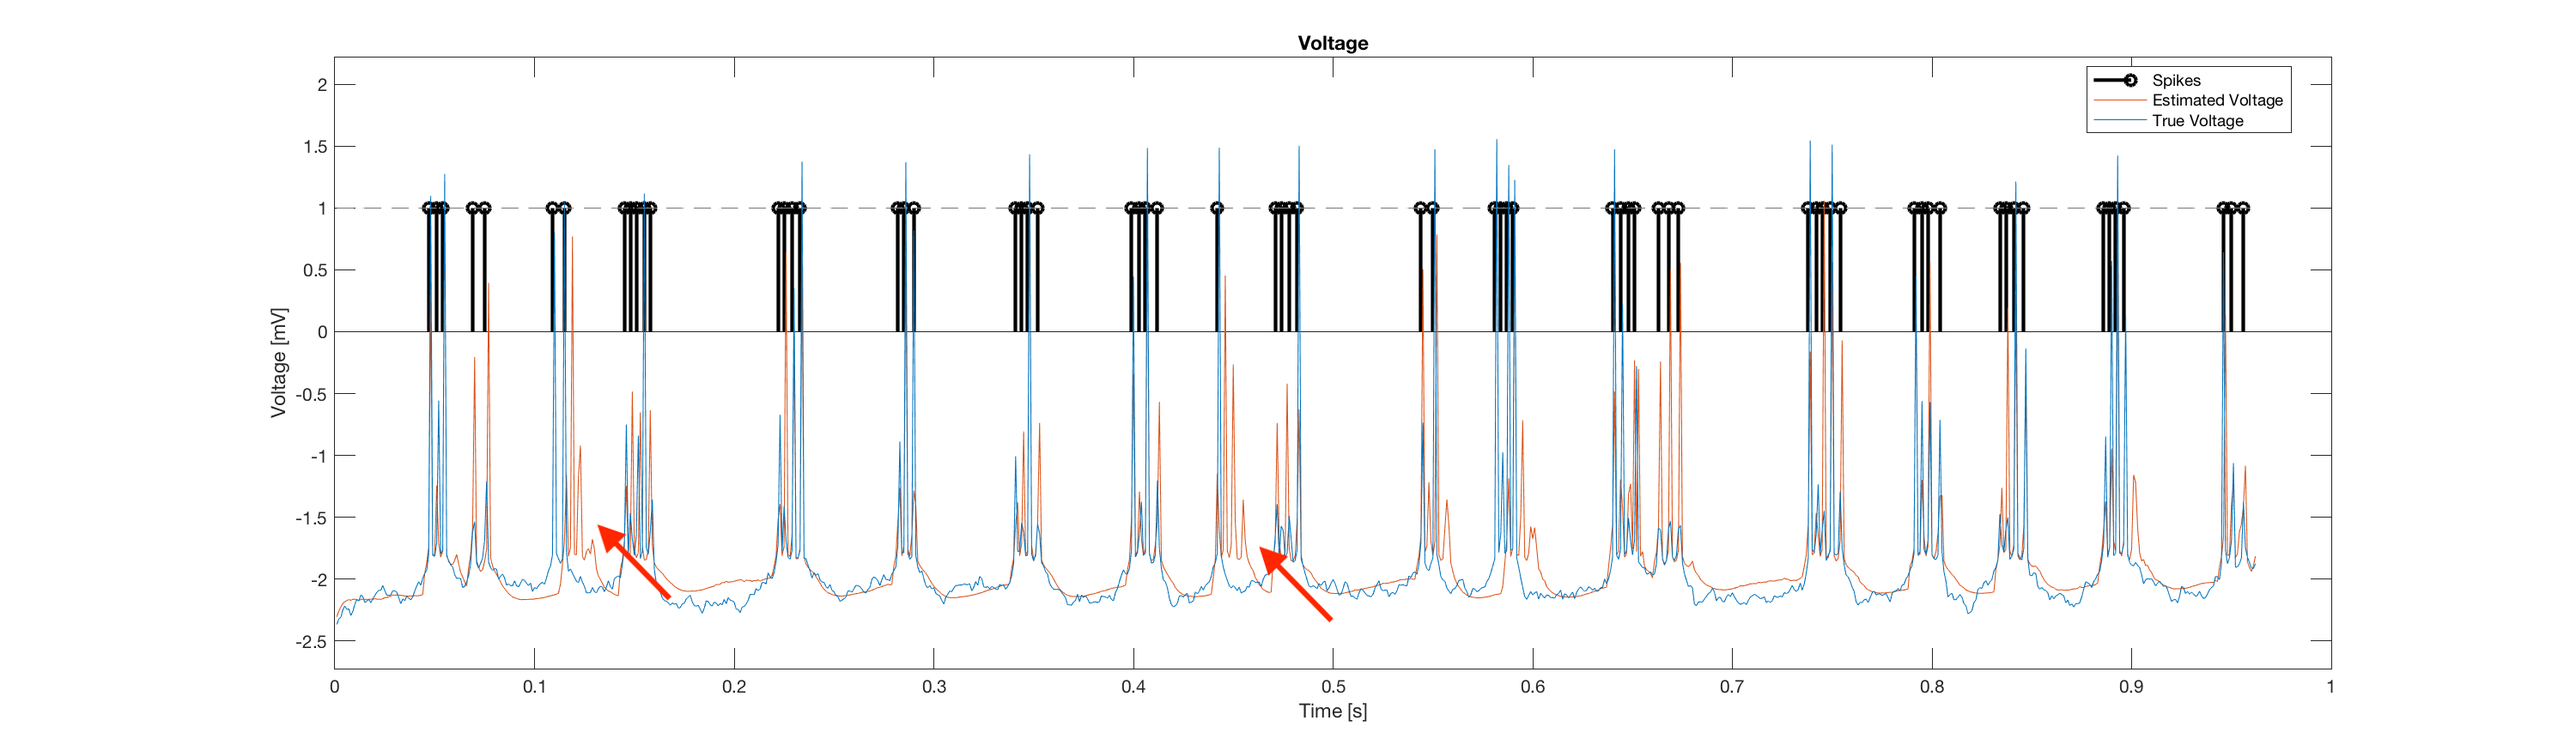
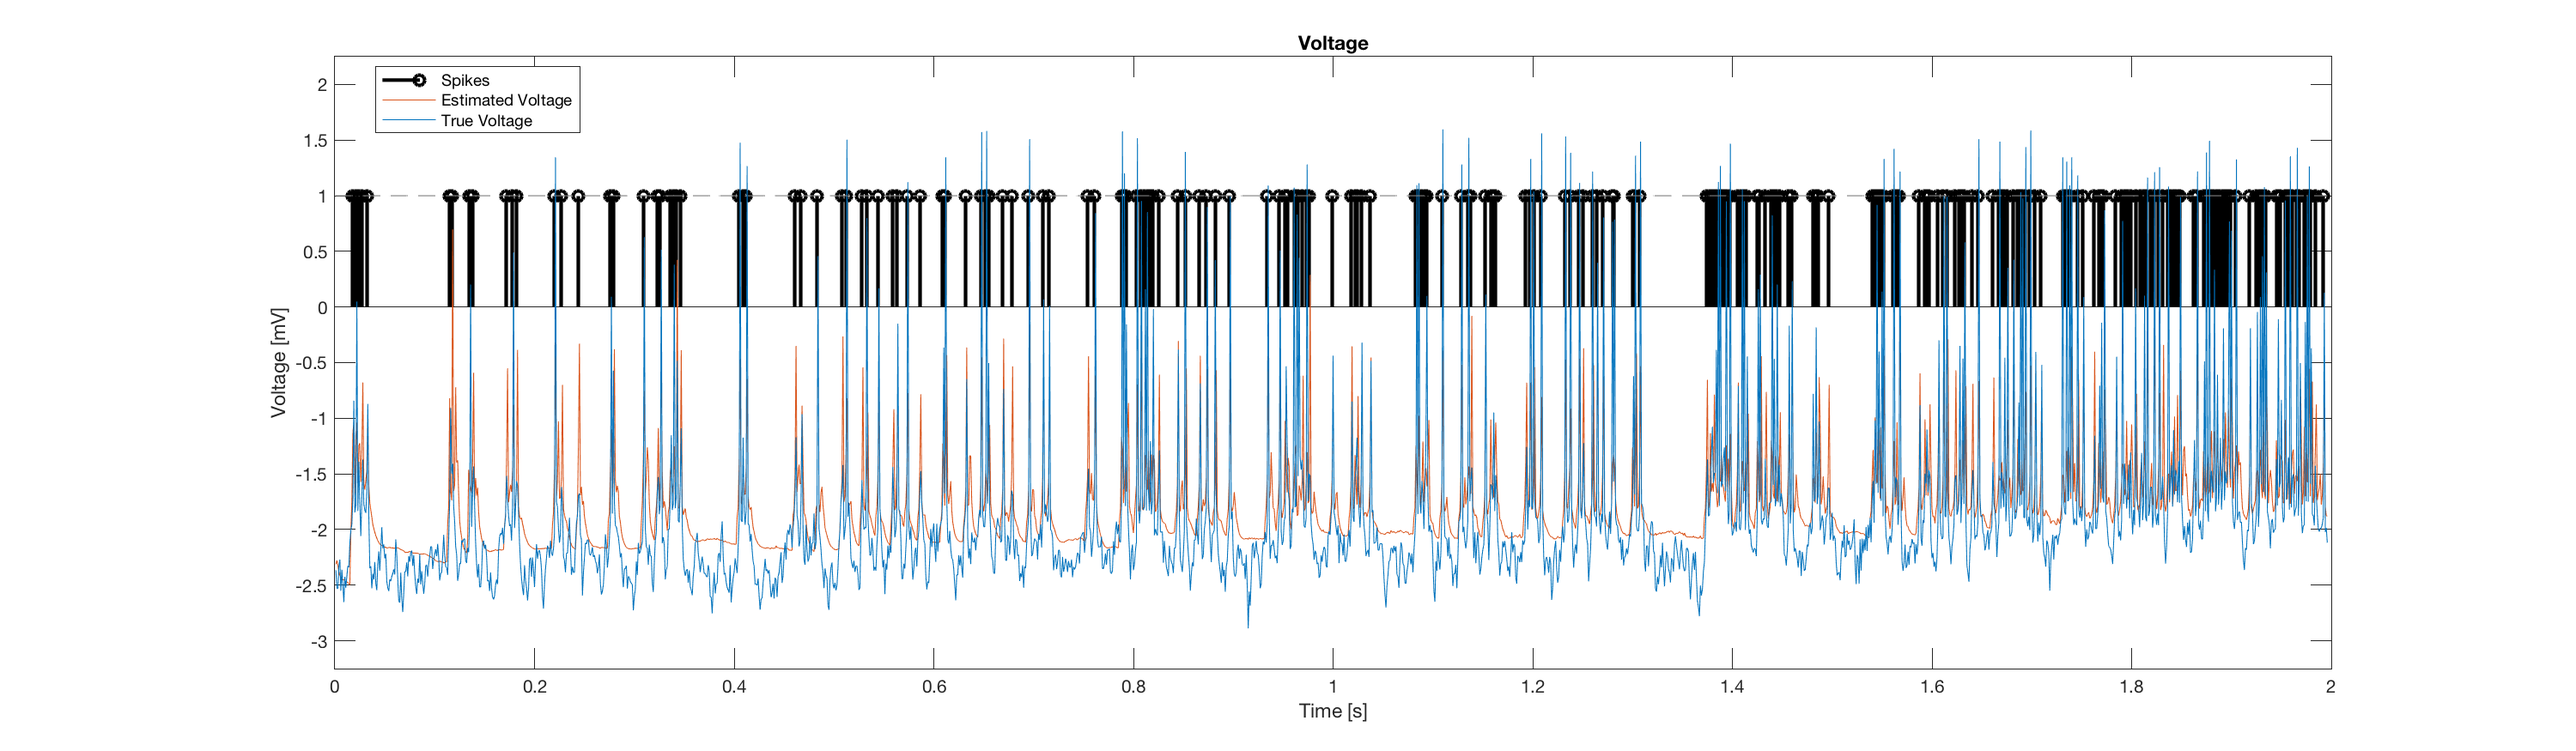
20180516.2

diff --git a/matlab/HHSim.m b/matlab/HHSim.m
@@ -3,7 +3,7 @@
 % noiseStd = [1 0 0 0]; % ... Measurment noise
 delta = 0.01; % integration step [ms]
 Vth = 30; % count spikes when voltage goes above Vth
-TOTAL_TIME = 1e3 * 1/delta; % time steps to simulate (ms * fs)
+TOTAL_TIME = 2e3 * 1/delta; % time steps to simulate (ms * fs)
 
 V =	-71;
 n = 0.0147; 
@@ -11,11 +11,11 @@ h = 0.7497;
 B = 0.0326;
 
 p = default_HH_params();
-p.mNoise = 0.1;
+p.mNoise = 0.5;
 
 simParams = structfun(@(x) x * ones(1, TOTAL_TIME, 'single'), p, 'Uni', 0);
-% simParams.EB = linspace(-90, -60, TOTAL_TIME);
-simParams.I = linspace(1.8, 2.2, TOTAL_TIME); 
+simParams.EB = linspace(-90, -60, TOTAL_TIME);
+% simParams.I = linspace(1.8, 2.2, TOTAL_TIME); 
 % simParams.mNoise = 0.1 * randn(1, TOTAL_TIME);
 
 

diff --git a/matlab/resamplingMeng.m b/matlab/resamplingMeng.m
@@ -9,8 +9,8 @@ function [posterior, inds] = resamplingMeng(particles, likelihood, obs)
 N = length(particles.weights);
 fn = fieldnames(particles.params);
 wDist = sort(particles.weights, 'descend');
-trigger = sum(wDist(1:N/10)) > .9;
-% trigger = obs;
+% trigger = sum(wDist(1:N/10)) > .9;
+trigger = obs;
 
 % Update weights
 weights = particles.weights .* likelihood + 1e-6;
@@ -18,7 +18,7 @@ weights = weights/sum(weights);
 
 idx = @(A, ind) A(ind);
 cc = structfun(@(x) idx(corrcoef(x, weights), 3), particles.params);
-ll_dist = sort(histcounts(likelihood, 10), 'descend');
+% ll_dist = sort(histcounts(likelihood, 10), 'descend');
 % if ll_dist(1) / N > .98
 % 	rho = 1.01 * ones(size(cc));
 % else

diff --git a/matlab/HH_stateBounds.m b/matlab/HH_stateBounds.m
@@ -23,7 +23,7 @@ paramBounds = {...
 % 				'VBth', [-5,	0,		1];	... % (-95 5)
 % 				'SB',	[5,		15,		1];	... % (-10 10)
 % 				'tauB', [64,	64,		1];	... % (0 80)
-				'I',	[1.5,		2.5,		1];	... % (-5 5)
+				'I',	[-5,	10,		1];	... % (-5 5)
 % 				'mNoise', [0,	0.5,		1];	... 
 % 				'EK',	[-115,	-50,	1]; ...
 % 				'gK',	[0,		15,		1]; ...

diff --git a/matlab/particle_filter.m b/matlab/particle_filter.m
@@ -5,7 +5,7 @@ SPIKETIMES = 'new_sim'; % simulate ('sim') or 'load' spike times
 N = 1e3; % number of particles; Meng used 1e4, but start at 1e3 for speed
 PLOT = false;
 PLOT_RESULTS = true;
-K_MAX = 1e3;
+K_MAX = 2e3;
 
 %% Load firing times
  

diff --git a/matlab/default_HH_params.m b/matlab/default_HH_params.m
@@ -13,4 +13,4 @@ p.tauB = 64;
 p.I = 2;
 p.EK = -95;
 p.gK = 7;
-p.mNoise = 0.0;
+p.mNoise = 1;
